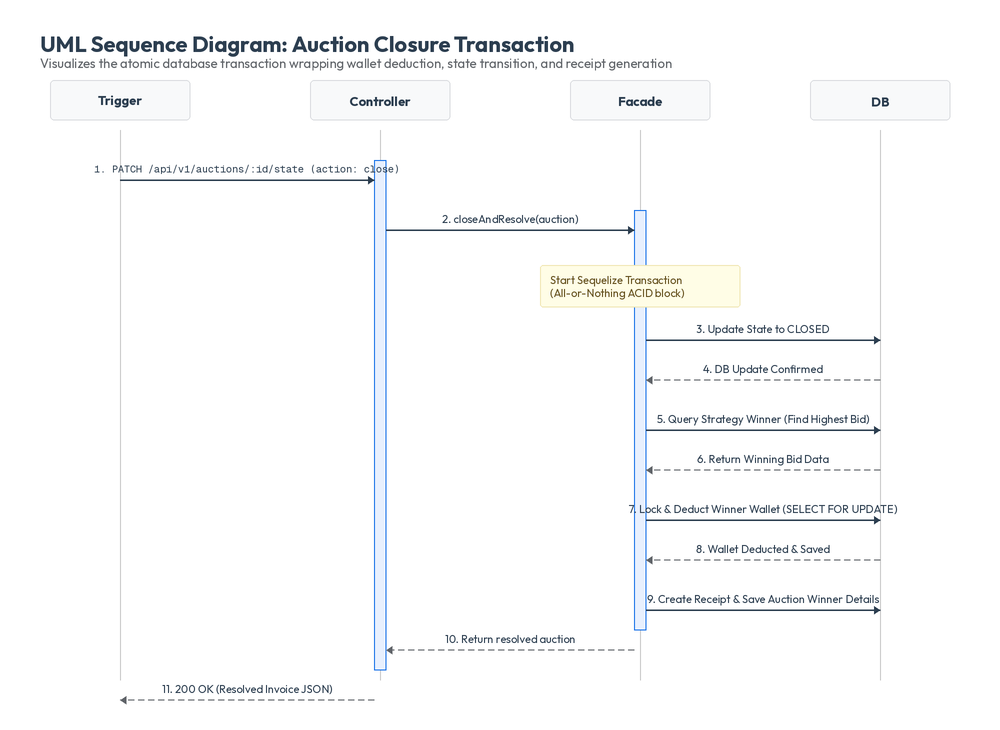
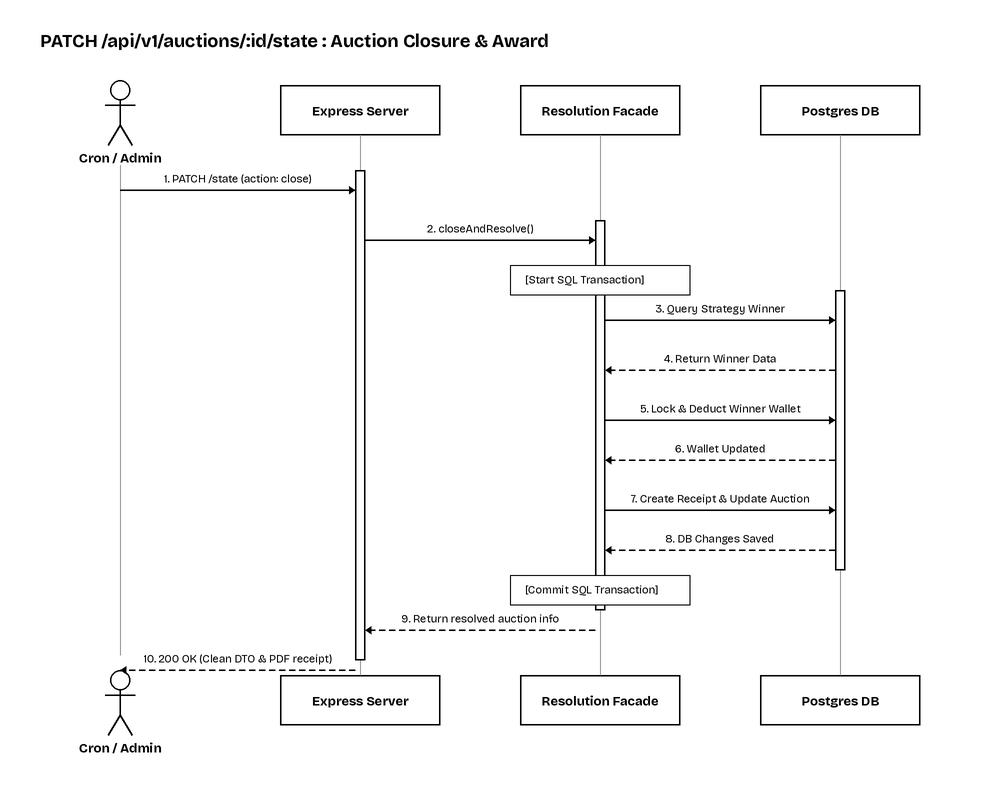
docs: redraw Auction Closure sequence diagram to match classic Visio layout in example

Changed region(s): [[0.031, 0.0301, 0.93, 0.9644], [0.775, 0.0904, 0.93, 0.1808]]

diff --git a/scratch/draw_extra_sequence_diagrams.py b/scratch/draw_extra_sequence_diagrams.py
@@ -45,7 +45,6 @@ def draw_lifeline_box(draw, name, x, y_top, y_bottom):
     draw.line([(x, y_top + h//2), (x, y_bottom - h//2)], fill=COLOR_GRAY_LIFELINE, width=int(1 * SCALE))
 
 def draw_lifeline_actor(draw, name, x, y_top, y_bottom):
-    # Head, body, arms, legs
     def draw_actor_at(y):
         head_r = 10 * SCALE
         # Head
@@ -66,17 +65,13 @@ def draw_lifeline_actor(draw, name, x, y_top, y_bottom):
         return torso_bottom + 40*SCALE
 
     line_start_y = draw_actor_at(y_top)
-    
-    # Draw bottom actor
     draw_actor_at(y_bottom)
     line_end_y = y_bottom - 45*SCALE
     
-    # Connect them
     draw.line([(x, line_start_y), (x, line_end_y)], fill=COLOR_GRAY_LIFELINE, width=int(1 * SCALE))
     return line_start_y, line_end_y
 
 def draw_arrow(draw, y, x_from, x_to, text, dashed=False):
-    # Arrow line
     if dashed:
         dash_len = 6 * SCALE
         gap_len = 4 * SCALE
@@ -91,7 +86,6 @@ def draw_arrow(draw, y, x_from, x_to, text, dashed=False):
     else:
         draw.line([(x_from, y), (x_to, y)], fill=COLOR_BLACK, width=COLOR_LINE_THICKNESS)
     
-    # Arrow head
     head_size = 6 * SCALE
     step = 1 if x_to > x_from else -1
     draw.polygon([
@@ -100,7 +94,6 @@ def draw_arrow(draw, y, x_from, x_to, text, dashed=False):
         (x_to - step * head_size, y + int(head_size // 1.5))
     ], fill=COLOR_BLACK)
     
-    # Label text (centered above line)
     tb = draw.textbbox((0, 0), text, font=font_body)
     tw, th = tb[2] - tb[0], tb[3] - tb[1]
     mid_x = (x_from + x_to) // 2
@@ -116,10 +109,8 @@ def generate_goods_creation():
     image = Image.new("RGBA", (w_img, h_img), COLOR_WHITE)
     draw = ImageDraw.Draw(image)
 
-    # Title
     draw.text((40 * SCALE, 30 * SCALE), "POST /api/v1/goods : Catalog Item Creation", font=font_title, fill=COLOR_BLACK)
 
-    # Column coordinates
     x_actor = 150 * SCALE
     x_server = 400 * SCALE
     x_db = 650 * SCALE
@@ -127,22 +118,18 @@ def generate_goods_creation():
     y_top = 110 * SCALE
     y_bottom = 500 * SCALE
 
-    # Draw lifelines
-    line_start_y, line_end_y = draw_lifeline_actor(draw, "bid-creator", x_actor, y_top, y_bottom)
+    draw_lifeline_actor(draw, "bid-creator", x_actor, y_top, y_bottom)
     draw_lifeline_box(draw, "Express Server", x_server, y_top, y_bottom)
     draw_lifeline_box(draw, "Postgres DB", x_db, y_top, y_bottom)
 
-    # Activations
     draw_activation(draw, x_server, 180 * SCALE, 440 * SCALE)
     draw_activation(draw, x_db, 260 * SCALE, 360 * SCALE)
 
-    # Steps
     draw_arrow(draw, 200 * SCALE, x_actor, x_server - 5*SCALE, "1. POST /api/v1/goods (payload)")
     draw_arrow(draw, 280 * SCALE, x_server + 5*SCALE, x_db - 5*SCALE, "2. Good.create()")
     draw_arrow(draw, 340 * SCALE, x_db - 5*SCALE, x_server + 5*SCALE, "3. Return new Good", dashed=True)
     draw_arrow(draw, 420 * SCALE, x_server - 5*SCALE, x_actor, "4. 201 Created (Success JSON)", dashed=True)
 
-    # Resize and save
     img_res = image.resize((800, 600), Image.Resampling.LANCZOS)
     img_res.save(os.path.join(OUTPUT_DIR, "goods_creation_sequence.png"), "PNG")
     print("Generated: goods_creation_sequence.png")
@@ -153,10 +140,8 @@ def generate_auction_schedule():
     image = Image.new("RGBA", (w_img, h_img), COLOR_WHITE)
     draw = ImageDraw.Draw(image)
 
-    # Title
     draw.text((40 * SCALE, 30 * SCALE), "POST /api/v1/auctions : Schedule Auction", font=font_title, fill=COLOR_BLACK)
 
-    # Column coordinates
     x_actor = 150 * SCALE
     x_server = 400 * SCALE
     x_db = 650 * SCALE
@@ -164,16 +149,13 @@ def generate_auction_schedule():
     y_top = 110 * SCALE
     y_bottom = 500 * SCALE
 
-    # Draw lifelines
-    line_start_y, line_end_y = draw_lifeline_actor(draw, "bid-creator", x_actor, y_top, y_bottom)
+    draw_lifeline_actor(draw, "bid-creator", x_actor, y_top, y_bottom)
     draw_lifeline_box(draw, "Express Server", x_server, y_top, y_bottom)
     draw_lifeline_box(draw, "Postgres DB", x_db, y_top, y_bottom)
 
-    # Activations
     draw_activation(draw, x_server, 180 * SCALE, 440 * SCALE)
     draw_activation(draw, x_db, 230 * SCALE, 390 * SCALE)
 
-    # Steps
     draw_arrow(draw, 200 * SCALE, x_actor, x_server - 5*SCALE, "1. POST /api/v1/auctions (goodId, type, schedule)")
     draw_arrow(draw, 250 * SCALE, x_server + 5*SCALE, x_db - 5*SCALE, "2. Query Good.findByPk(goodId)")
     draw_arrow(draw, 300 * SCALE, x_db - 5*SCALE, x_server + 5*SCALE, "3. Return Good details", dashed=True)
@@ -181,7 +163,6 @@ def generate_auction_schedule():
     draw_arrow(draw, 390 * SCALE, x_db - 5*SCALE, x_server + 5*SCALE, "5. Return Auction record", dashed=True)
     draw_arrow(draw, 430 * SCALE, x_server - 5*SCALE, x_actor, "6. 201 Created (Success JSON)", dashed=True)
 
-    # Resize and save
     img_res = image.resize((800, 600), Image.Resampling.LANCZOS)
     img_res.save(os.path.join(OUTPUT_DIR, "auction_schedule_sequence.png"), "PNG")
     print("Generated: auction_schedule_sequence.png")
@@ -192,10 +173,8 @@ def generate_bid_placement():
     image = Image.new("RGBA", (w_img, h_img), COLOR_WHITE)
     draw = ImageDraw.Draw(image)
 
-    # Title
     draw.text((40 * SCALE, 30 * SCALE), "POST /api/v1/auctions/:id/bids : Bid Placement", font=font_title, fill=COLOR_BLACK)
 
-    # Column coordinates
     x_actor = 120 * SCALE
     x_server = 360 * SCALE
     x_logic = 600 * SCALE
@@ -204,18 +183,15 @@ def generate_bid_placement():
     y_top = 110 * SCALE
     y_bottom = 600 * SCALE
 
-    # Draw lifelines
-    line_start_y, line_end_y = draw_lifeline_actor(draw, "bid-participant", x_actor, y_top, y_bottom)
+    draw_lifeline_actor(draw, "bid-participant", x_actor, y_top, y_bottom)
     draw_lifeline_box(draw, "Express Server", x_server, y_top, y_bottom)
     draw_lifeline_box(draw, "Bidding Logic", x_logic, y_top, y_bottom)
     draw_lifeline_box(draw, "Postgres DB", x_db, y_top, y_bottom)
 
-    # Activations
     draw_activation(draw, x_server, 180 * SCALE, 550 * SCALE)
     draw_activation(draw, x_logic, 290 * SCALE, 470 * SCALE)
     draw_activation(draw, x_db, 210 * SCALE, 510 * SCALE)
 
-    # Steps
     draw_arrow(draw, 200 * SCALE, x_actor, x_server - 5*SCALE, "1. POST /auctions/:id/bids (amount)")
     draw_arrow(draw, 230 * SCALE, x_server + 5*SCALE, x_db - 5*SCALE, "2. Fetch Auction & Wallet")
     draw_arrow(draw, 270 * SCALE, x_db - 5*SCALE, x_server + 5*SCALE, "3. Return records", dashed=True)
@@ -227,12 +203,71 @@ def generate_bid_placement():
     draw_arrow(draw, 510 * SCALE, x_db - 5*SCALE, x_server + 5*SCALE, "9. Return new Bid", dashed=True)
     draw_arrow(draw, 540 * SCALE, x_server - 5*SCALE, x_actor, "10. 201 Created (Success JSON)", dashed=True)
 
-    # Resize and save
     img_res = image.resize((1000, 700), Image.Resampling.LANCZOS)
     img_res.save(os.path.join(OUTPUT_DIR, "bid_placement_sequence.png"), "PNG")
     print("Generated: bid_placement_sequence.png")
+
+# ----------------- 4. AUCTION CLOSURE SEQUENCE -----------------
+def generate_auction_closure():
+    w_img, h_img = 1000 * SCALE, 800 * SCALE
+    image = Image.new("RGBA", (w_img, h_img), COLOR_WHITE)
+    draw = ImageDraw.Draw(image)
+
+    draw.text((40 * SCALE, 30 * SCALE), "PATCH /api/v1/auctions/:id/state : Auction Closure & Award", font=font_title, fill=COLOR_BLACK)
+
+    x_actor = 120 * SCALE
+    x_server = 360 * SCALE
+    x_facade = 600 * SCALE
+    x_db = 840 * SCALE
+
+    y_top = 110 * SCALE
+    y_bottom = 700 * SCALE
+
+    # Lifelines
+    draw_lifeline_actor(draw, "Cron / Admin", x_actor, y_top, y_bottom)
+    draw_lifeline_box(draw, "Express Server", x_server, y_top, y_bottom)
+    draw_lifeline_box(draw, "Resolution Facade", x_facade, y_top, y_bottom)
+    draw_lifeline_box(draw, "Postgres DB", x_db, y_top, y_bottom)
+
+    # Activations
+    draw_activation(draw, x_server, 170 * SCALE, 660 * SCALE)
+    draw_activation(draw, x_facade, 220 * SCALE, 610 * SCALE)
+    draw_activation(draw, x_db, 290 * SCALE, 570 * SCALE)
+
+    # Steps
+    draw_arrow(draw, 190 * SCALE, x_actor, x_server - 5*SCALE, "1. PATCH /state (action: close)")
+    draw_arrow(draw, 240 * SCALE, x_server + 5*SCALE, x_facade - 5*SCALE, "2. closeAndResolve()")
+
+    # Transaction boundary (Note over Facade)
+    note_w = 180 * SCALE
+    note_h = 30 * SCALE
+    note_x = x_facade - note_w // 2
+    note_y = 265 * SCALE
+    draw.rectangle([note_x, note_y, note_x + note_w, note_y + note_h], fill=COLOR_WHITE, outline=COLOR_BLACK, width=int(1 * SCALE))
+    draw.text((note_x + 15 * SCALE, note_y + 8 * SCALE), "[Start SQL Transaction]", font=font_body, fill=COLOR_BLACK)
+
+    draw_arrow(draw, 320 * SCALE, x_facade + 5*SCALE, x_db - 5*SCALE, "3. Query Strategy Winner")
+    draw_arrow(draw, 370 * SCALE, x_db - 5*SCALE, x_facade + 5*SCALE, "4. Return Winner Data", dashed=True)
+    draw_arrow(draw, 420 * SCALE, x_facade + 5*SCALE, x_db - 5*SCALE, "5. Lock & Deduct Winner Wallet")
+    draw_arrow(draw, 460 * SCALE, x_db - 5*SCALE, x_facade + 5*SCALE, "6. Wallet Updated", dashed=True)
+    draw_arrow(draw, 510 * SCALE, x_facade + 5*SCALE, x_db - 5*SCALE, "7. Create Receipt & Update Auction")
+    draw_arrow(draw, 550 * SCALE, x_db - 5*SCALE, x_facade + 5*SCALE, "8. DB Changes Saved", dashed=True)
+
+    # Commit note
+    note_y_commit = 575 * SCALE
+    draw.rectangle([note_x, note_y_commit, note_x + note_w, note_y_commit + note_h], fill=COLOR_WHITE, outline=COLOR_BLACK, width=int(1 * SCALE))
+    draw.text((note_x + 15 * SCALE, note_y_commit + 8 * SCALE), "[Commit SQL Transaction]", font=font_body, fill=COLOR_BLACK)
+
+    draw_arrow(draw, 630 * SCALE, x_facade - 5*SCALE, x_server + 5*SCALE, "9. Return resolved auction info", dashed=True)
+    draw_arrow(draw, 670 * SCALE, x_server - 5*SCALE, x_actor, "10. 200 OK (Clean DTO & PDF receipt)", dashed=True)
+
+    # Resize and save
+    img_res = image.resize((1000, 800), Image.Resampling.LANCZOS)
+    img_res.save(os.path.join(OUTPUT_DIR, "closure_sequence_diagram.png"), "PNG")
+    print("Generated: closure_sequence_diagram.png")
 
 if __name__ == "__main__":
     generate_goods_creation()
     generate_auction_schedule()
     generate_bid_placement()
+    generate_auction_closure()